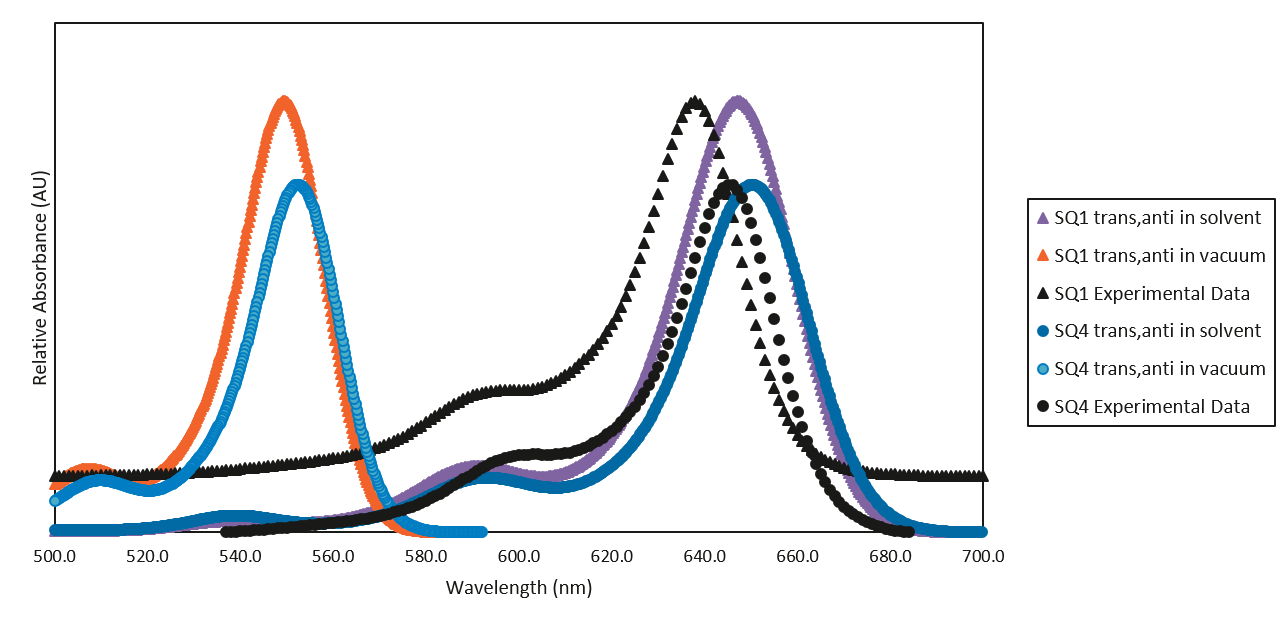
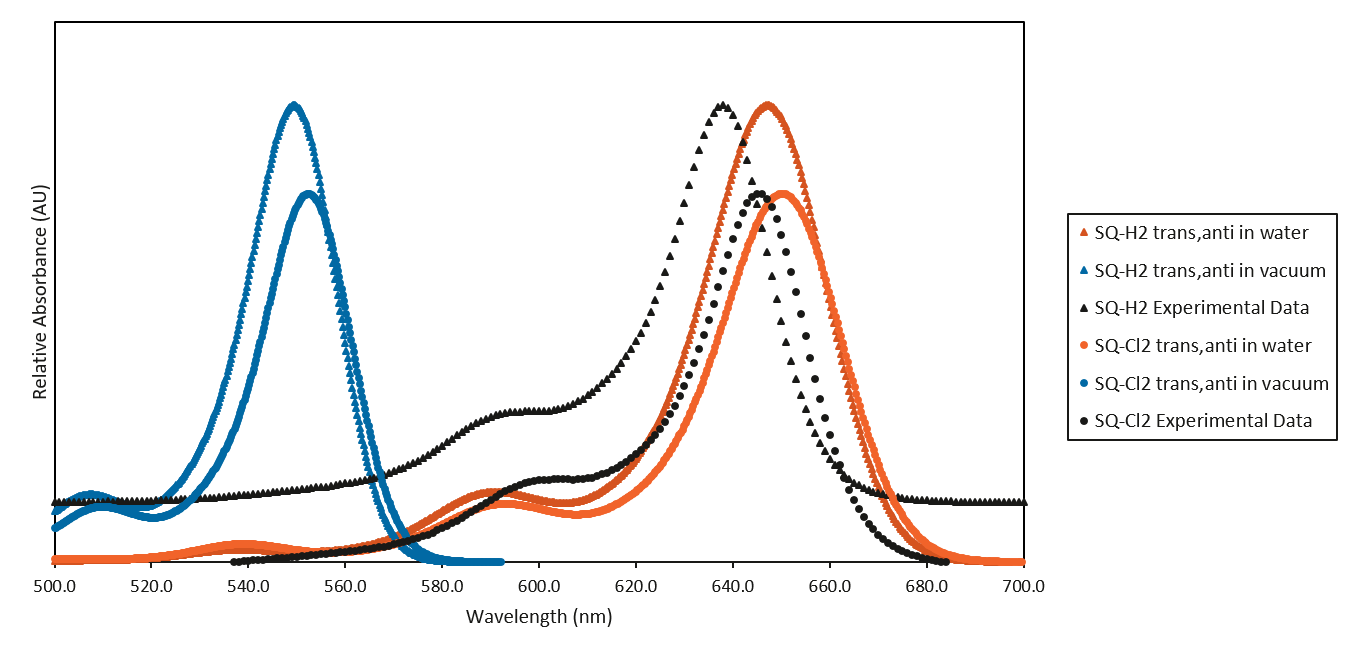
Added comments from Dr. Li. Revision of results section will follow shortly

Changed region(s): [[0.0, 0.0304, 0.9946, 0.9728], [0.3419, 0.608, 0.4351, 0.6688], [0.4351, 0.5472, 0.4662, 0.608]]

diff --git a/main.tex b/main.tex
@@ -34,6 +34,7 @@ First-Principles Studies of Substituent Effect on Squaraine Dyes\\
 \affiliation{Boise State University}
 \author{Lan Li}
 \affiliation{Boise State University}
+\email{lanli@boisestate.edu}
 
 
 
@@ -52,14 +53,14 @@ First-Principles Studies of Substituent Effect on Squaraine Dyes\\
 \section{Introduction}
 % --------------------
 Employing DNA self-assembly methods is shown to enable the manipulation and mediation of chromophore dyes and give rise to Frenkel exciton delocalization among dimer systems\cite{Cannon2018LargeAggregates}. The study of monomers can lend insight into suitable candidates for more highly tuned dimer systems. Squaraine dyes in particular are reported to have spectral properties that make them a strong candidate to be used in conjunction with DNA nanotechnology\cite{Markova2013ComparisonLabels}. This application of squaraines offers an opportunity to implement multichromophoric aggregate systems. 
-By utilizing DNA as a scaffold for squaraine aggregation, dipole-dipole coupling occurs\cite{Cannon2017CoherentSystem}. This interatomic interaction model was first described by Kasha to allow the mixing of wavefunctions to access nondegenerate states\cite{Kasha1965TheSpectroscopy}. The splitting of energy levels results in new excited state behavior in aggregates as a bathochromic shift in absorbance (often referred as an J aggregate) or a hypsochromic shift (often referred to as an H aggregate)\cite{Wurthner2011J-aggregates:Materials} in conjunction with an observed splitting of the absorption peak known as Davydov splitting\cite{Zhong2019DavydovDimers}. The optical properties of these aggregates results in Frenkel excitons with coupling strengths related to these newly accessible states. 
-To begin the study of a dye monomer to establish a baseline of multicomponent systems. Although aggregates are defined by their interaction distances, monomer electronic information is necessary when treating these interactions with point dipole approximations\cite{Abramavicius2009ExtractingSpectra}. Examples of other fields in which squaraines are being applied include organic photovoltaics\citep{Wei2012FunctionalizedPhotovoltaics, Chen2018DensityCell}, near infrared medical imaging\cite{Strassel2018SquaraineNm}, and molecular photoswitches\citep{Kellis2019AnPhases, Scholes2011LessonsHarvesting} .
+By utilizing DNA as a scaffold for squaraine aggregation, dipole-dipole coupling occurs\cite{Cannon2017CoherentSystem}. This interatomic interaction model was first described by Kasha \textit{et al} to allow the mixing of wavefunctions to access  nondegenerate states\cite{Kasha1965TheSpectroscopy}. The splitting of energy levels results in new excited state behavior in aggregates as a bathochromic shift in absorbance (often referred as an J aggregate) or a hypsochromic shift (often referred as an H aggregate)\cite{Wurthner2011J-aggregates:Materials} in conjunction with an observed splitting of the absorption peak known as Davydov splitting\cite{Zhong2019DavydovDimers}. The optical properties of these aggregates results in Frenkel excitons with coupling strengths related to these newly accessible states. 
+Although aggregates are defined by their interaction distances, monomer electronic information is necessary when treating these interactions with point dipole approximations\cite{Abramavicius2009ExtractingSpectra}. First-principles  studies of squaraines are also important for organic photovoltaics\citep{Wei2012FunctionalizedPhotovoltaics, Chen2018DensityCell}, near infrared medical imaging\cite{Strassel2018SquaraineNm}, and molecular photoswitche applications\citep{Kellis2019AnPhases, Scholes2011LessonsHarvesting} .
 
 Squaraine dyes are composed of a squaric acid center. This central feature is a made from an electron-deficient aromatic group. This group is then combined with accepting of electron-rich groups, often in a symmetric manner by means of a methine bridge\cite{Ilina2020SquaraineChallenges}. In this study, the electron-rich groups are trimethylindolenine with varied substitutes.
 
 Previous work\cite{Bassal2017ExploringADC2} highlights the history of computational studies of squaraine dye studies. This work presents a smaller variation in squaraine dyes by maintaining the basic chemistry and only altering substituent groups. Squaraine dyes, unlike similar NIR cyanine dyes, are not symmetric and so from the monomer perspective have a potential for conformers to influence bulk spectral properties\cite{Kolosova2018MolecularSquaraines}. Highlighting squaraine conformer properties has recently become of interest due to the conformations potential to alter the final photophysical properties in squaraine applications\citep{Paterno2018ExcitedScenario}. Conformers investigated in this paper are : trans,syn or $C_{s}$ symmetry; cis,syn or $C_{2v}$ symmetry; and trans,anti or $C_{2h}$ symmetry.
 
-This work investigates the ground state and excited state molecular structure of three conformations: trans,syn; cis,syn, and trans,anti for SQ-H2,SQ-Cl2 ,SQ-Cl1 and SQ-(CH3)2 otherwise referred to as SQ1, SQ4, SQ8 and SQ14 using density functional theory (DFT). This work presents a study of SQ1, SQ4, SQ8, and SQ14, in which substituents are changed according to their name. Investigations into the ground state and excited state electronic structures of these chromophores will enable a comparison of different substituents and their effects on electronic transition states necessary for the optimization of multichromophoric systems while also considering absorption properties.  
+This work investigates the ground state and excited state molecular structure of three conformations: trans,syn; cis,syn, and trans,anti for SQ-H2,SQ-Cl2 ,SQ-Cl1 and SQ-(CH3)2 using density functional theory (DFT) and time-dependent DFT (TD-DFT). Investigations into the ground state and excited state electronic structures of these dyes will enable a comparison of different substituents and their effects on electronic transition states necessary for the optimization of multichromophoric systems while also considering absorption properties.  
 
 
 \begin{figure}[h]
@@ -78,7 +79,7 @@ This work investigates the ground state and excited state molecular structure of
     \includegraphics[width=.5\linewidth]{figures/sqi-trans.png}
     \caption{}
 \end{subfigure}
-    \caption{SQ-(i), where (i) sites represent substituent locations. SQ-H2, or SQ1 refers to squaraine derivative with (i) as H.Sq-Cl2, or SQ4 refers to squaraine derivative with (i) as Cl.SQ-Cl1, or SQ8 refers to squaraine derivative with (i) as Cl and H. SQ(CH3)2, or SQ14 referring to squaraine derivative with (i) as CH4. (a) shows the trans,anti conformation. (b) shows the cis,syn conformation. (c) shows the trans,syn conformation
+    \caption{SQ-(i), where (i) sites represent substituent locations. SQ-H2 refers to squaraine derivative with (i) as H, Sq-Cl2 refers to squaraine derivative with (i) as Cl,SQ-Cl1 refers to squaraine derivative with (i) as Cl and H, and SQ(CH3)2 refers to squaraine derivative with (i) as CH4. (a) shows the trans,anti conformation. (b) shows the cis,syn conformation. (c) shows the trans,syn conformation
 }
     \label{fig:SQ dye}
 \end{figure}
@@ -87,15 +88,15 @@ This work investigates the ground state and excited state molecular structure of
 % --------------------
 \section{Methodology}
 % --------------------
-The Gaussian 16 software package\cite{g16} was used in density functional density (DFT) calculations. Molecules were built and initially relaxed using the molecular editing software Avogadro\cite{Hanwell2012Avogadro:Platform} using the UFF\cite{Rappe1992UFFSimulations} method. All calculations were performed using the 6-31G+(d,p) basis set with the M06-2X\cite{Zhao2008TheFunction} correlation functional as previous works have shown a strong agreement with experimental results when compared with physical systems\citep{Jacquemin2016Excited-StateCC2,Jacquemin20150-0Compounds}. These structures were optimized using a tight root mean square residual force of $1*(10)^{-5}$  Hartree$\backslash$Bohr and an ultra fine integration grid of $99$ radial shells and $590$ angular points per shell. The use of tight root mean squared and ultra fine integration grid is recommended for optimizing larger molecules with soft frequency modes such as methyl groups\cite{AzaisTestingSuper-Resolution}. Ground state optimization of these molecules were verified to be optimized via ground state frequency checks to ensure no imaginary frequencies were present.
+The Gaussian 16 software package\cite{g16} was used in density functional density (DFT) calculations. Molecules were built and initially relaxed using the molecular editing software Avogadro\cite{Hanwell2012Avogadro:Platform} using the UFF\cite{Rappe1992UFFSimulations} method. All calculations were performed using the 6-31G+(d,p) basis set with the M06-2X\cite{Zhao2008TheFunction} correlation functional because they showed a strong agreement with experimental results when compared with physical systems\citep{Jacquemin2016Excited-StateCC2,Jacquemin20150-0Compounds}. These structures were optimized using a tight root mean square residual force of $1*(10)^{-5}$  Hartree$\backslash$Bohr and an ultra fine integration grid of $99$ radial shells and $590$ angular points per shell. The use of tight root mean squared and ultra fine integration grid is recommended for optimizing larger molecules with soft frequency modes such as methyl groups\cite{AzaisTestingSuper-Resolution}. Ground state optimization of these molecules were verified by ground state frequency checks to ensure no imaginary frequencies were present.
 
-The optimized ground state structures were then used as the input geometry for excited state optimization calculations using time-dependent DFT (TD-DFT). The calculated excited state geometry was used to calculate the excited state frequency to ensure an optimized structure was achieved. Following this procedure was done to produce the 0-0 energy by implicitly including the zero-point vibrational energies\cite{Adamo2013TheTheory}. The ground state and excited state frequencies were then used to produce an absorption spectrum for each molecule and conformer. These spectra were generated using the general Frank-Condon (FC) method. From the ground state and excited state structures, parameters such as a dipole moment are accessible. A difference dipole,$\Delta d$, is calculated by taking the vector difference of the excited state and ground state dipole. The solvation energy, $\Delta G$ was calculated by taking the diference in ground state energies from a dye calcualted using SMD\cite{Marenich2009UniversalTensions} water and vacuum.
+The calculated excited state geometry was used to calculate the excited state frequency to ensure an optimized structure was achieved. Following this procedure was done to produce the 0-0 energy by implicitly including the zero-point vibrational energies\cite{Adamo2013TheTheory}. The ground state and excited state frequencies were then used to produce an absorption spectrum for each molecule and conformer. These spectra were generated using the general Frank-Condon (FC) method. From the ground state and excited state structures, parameters such as a dipole moment are accessible. A difference dipole,$\Delta d$, is calculated by taking the vector difference of the excited state and ground state dipole. The solvation energy, $\Delta G$ was calculated by taking the difference in ground state energies from a dye calculated using SMD\cite{Marenich2009UniversalTensions} water and vacuum.
 
 Conformation of squaraine dyes are referred here as trans,syn; cis,syn and trans,anti. In the study of monomers, it has been reported that there is a potential for coexistence of conformers in solution with conformation being substituent sensitive\citep{Kolosova2019MolecularSquaraines,Rohr2018ExcitonDimers}. The population percentages were investigated using the Boltzmann distribution.
-The difference dipole 
+The difference dipole was calculated by means of take the vector component difference of the excited state dipole and ground state dipole moments.
 
 
-Experimental discussion? Talk to Kimo
+Experimental discussion? Talk to Kimo. Have him explain the vertical difference along the y-axis for SQ-H2. SQ-Cl2 behaves as expected.
 
 \section{Results}
 When comparing the results of conformer to experimental conditions and Boltzmann population distributions, the trans,anti conformation is the most dominate population and is closest to the experimental peak absorbance. All spectra exhibit a weak vibronic shoulder followed by a strong absorption peak in the orange wavelength region. This is narrow band with shoulder has been reported in previous literature of squaraine absorption bands \citep{Qin2013ACells,Zheng2015ContributionDevices,Yang2017ThePerformance,Borrelli2014TheoreticalDye,Kuster2015CoupledPendulums,Brixner2017ExcitonSystems}. The trans,syn conformation had a negligible Boltzmann population of $<5\%$ and so this shoulder should not effect a bulk absorption spectra in solution. This follows with conclusions by others in that, for squaraine with a mirror symmetry, trans,anti dominates the the population with a non-negligible percentage also of cis,syn symmetry\cite{Borrelli2014TheoreticalDye}. In fact, the cis,syn conformation has been shown to be the more energetically favorable conformer by adding a dicyanovinyl substituent to the squaric moiety\cite{Qin2013ACells}.  
@@ -103,20 +104,20 @@ When comparing the results of conformer to experimental conditions and Boltzmann
 
 \begin{figure}[h]
     \centering
-    \includegraphics[width=16cm,height=8cm]{figures/sq1_conformer_exp.jpg}
-    \caption{Comparison of SQ1 conformer spectra generated using FC approximation in IEFPCM water solvent. All structures were optimized  using 6-31+G(d,p) basis set and M06-2X exchange correlation functional.}
+    \includegraphics[width=16cm,height=8cm]{figures/sq1_conformer_exp.png}
+    \caption{Comparison of SQ-H2 conformer spectra generated using FC approximation in IEFPCM water solvent. All structures were optimized  using 6-31+G(d,p) basis set and M06-2X exchange correlation functional.}
     \label{fig:SQ1 conformers}
 \end{figure}
 
-When comparing SQ1 and SQ4 trans,anti, experimental results, and vacuum calculations, M06-2X in vacuum is able to predict the experimental absorption spectrum curve before the inclusion of a solvent. The inclusion of solvent is able to predict the peak of SQ1 within 1.4$\%$ 0r 0.03 $eV$ of experiment and SQ4 within 2.4$\%$ or 0.02 $eV$. A blue shift of 0.03 $eV$ is a well-known phenomena of TD-DFT calculations with this family of cyanine-type dyes\cite{Jacquemin2011Excited-stateEnvironments}. Although the absorption peaks are not exact, the absorption curves are of a similar shape. This matching of shapes suggests that excited state calculations are capable of predicting the excited state geometry accurately. 
+When comparing SQ-H2 and SQ-Cl2 trans,anti, experimental results, and vacuum calculations, M06-2X in vacuum is able to predict the experimental absorption spectrum curve before the inclusion of a solvent. The inclusion of solvent is able to predict the peak of SQ-H2 within 1.4$\%$ 0r 0.03 $eV$ of experiment and SQ-Cl2 within 2.4$\%$ or 0.02 $eV$. A blue shift of 0.03 $eV$ is a well-known phenomenon of TD-DFT calculations with this family of cyanine-type dyes\cite{Jacquemin2011Excited-stateEnvironments}. Although the absorption peaks are not exact, the absorption curves are of a similar shape. This matching of shapes suggests that excited state calculations are capable of predicting the excited state geometry accurately. 
 
-A popular classification and quantification of substituents as electron donating and accepting is known as the Hammet parameter\cite{Hansch1991AParameters}. In this scheme,$\sigma_{p}^{+}$ is a parameter associated with substituents that interact with strong resonance reaction systems (+ superscript) as a general correction to the $\sigma_{p}$ parameter which does not take this approach. The chlorine substituent in SQ4 acts as a electron donating addition and is capable of delocalizing a positive charge according to the Hammet parameter. This electron localization manifest itself when comparing dipole moments, since dipole moments of a symmetric dye such as a squaraine should result in the an electronic structure with a more positive aromatic group relative to the electron-deficient squaric moiety. This substituent leaves the absorption relatively undisturbed due to the relatively uncharged $\pi$ conjugation length of the dye\cite{Punitharasu2019-ExtendedResponse}.
+A popular classification and quantification of substituents as electron donating and accepting is known as the Hammet parameter\cite{Hansch1991AParameters}. In this scheme, $\sigma_{p}^{+}$ is a parameter associated with substituents that interact with strong resonance reaction systems (+ superscript) as a general correction to the $\sigma_{p}$ parameter which does not take this approach. The chlorine substituents in SQ-Cl2 acts as an electron donating addition and is capable of delocalizing a positive charge according to the Hammet parameter. This electron localization manifest itself when comparing dipole moments, since dipole moments of a symmetric dye such as a squaraine should result in the an electronic structure with a more positive aromatic group relative to the electron-deficient squaric moiety. This substituent leaves the absorption relatively undisturbed due to the relatively uncharged $\pi$ conjugation length of the dye\cite{Punitharasu2019-ExtendedResponse}.
 
 
 \begin{figure}[h]
     \centering
     \includegraphics[width=15cm,height=8cm]{figures/sq1-sq4.png}
-    \caption{Comparison of  SQ1 and SQ4 spectra generated using FC approximation in vacuum, IEFPCM water solvent, and experimental data. All structures were optimized using 6-31+G(d,p) basis set and M06-2X exchange correlation functional.}
+    \caption{Comparison of  SQ-H2 and SQ-Cl2 spectra generated using FC approximation in vacuum, IEFPCM water solvent, and experimental data. All structures were optimized using 6-31+G(d,p) basis set and M06-2X exchange correlation functional.}
     \label{fig:SQ1 and SQ4}
 \end{figure}
 
@@ -124,7 +125,7 @@ A popular classification and quantification of substituents as electron donating
 \begin{figure}[h]
     \centering
     \includegraphics[width=15cm,height=8cm]{figures/sq1_4_8_14.png}
-    \caption{Comparison of  SQ1, SQ4, SQ8, and SQ14 trans,anti conformation spectra generated using FC approximation in IEFPCM water solvent. All structures were optimized  using 6-31+G(d,p) basis set and M06-2X exchange correlation functional.}
+    \caption{Comparison of  SQ-H2, SQ-Cl2, SQ-Cl1, and SQ-(CH3)2 trans,anti conformation spectra generated using FC approximation in IEFPCM water solvent. All structures were optimized  using 6-31+G(d,p) basis set and M06-2X exchange correlation functional.}
     \label{tab:SQ1,4,8,14 absorption}
 \end{figure}
 
@@ -138,22 +139,23 @@ A popular classification and quantification of substituents as electron donating
 
 
 \newpage
-The altering of substituents of trimethylindolenine squaraine dyes does not significantly alter the peak absorption of these dyes. This behavior suggests absorption properties are more sensitivity to $\pi$ conjugation lengths\cite{Yamaguchi2008HowEfficiency}.  Meanwhile, these substituents allow for an opportunity to change the electronic properties of dyes. When comparing trans,anti $C_{2h}$ data in Table \ref{tab:SQ1,4,8,14 lambda data}, the molecule with a break in symmetry, SQ8, exhibits a $\Delta d$ relative to the symmetric SQ1, SQ4, and SQ14. Meanwhile, when comparing $\mu$ of SQ4, SQ8, and SQ14, they remain relatively unperturbed. 
-When building a system meant for aggregation, these substituents can also effect the aggregation behavior. The difference between SQ4 and SQ14 are related to the solvation energy.
+The altering of substituents of trimethylindolenine squaraine dyes does not significantly alter the peak absorption of these dyes. This behavior suggests absorption properties are more sensitivity to $\pi$ conjugation lengths\cite{Yamaguchi2008HowEfficiency}. Meanwhile, these substituents allow for an opportunity to change the electronic properties of dyes. When comparing trans,anti $C_{2h}$ data in Table \ref{tab:SQ1,4,8,14 lambda data}, the molecule with a break in symmetry, SQ-Cl1, exhibits a $\Delta d$ relative to the symmetric SQ-H2, SQ-Cl2, and SQ-(CH3)2. Meanwhile, when comparing $\mu$ of SQ-Cl2, SQ-Cl1, and SQ-(CH3)2, they remain relatively unperturbed. When comparing Hammet parameters, the electron accepting chlorine groups and the electron withdrawing methly groups have a similar effect on delocalizing the electronic structure relative to the the highly electron accepting squaric moiety.
+When building a system meant for aggregation, these substituents can also effect the aggregation behavior. The difference between SQ-Cl2 and SQ-(CH3)2 are related to the solvation energy.
 
-When comparing the cis,syn $C_{2v}$ data, there is now a dipole relative to the electronic structure of the dyes and so $\Delta d$ values become larger. This symmetry effect is less noticeable in SQ-Cl1 since this system already had broken mirror symmetry. In general, $\mu$ values for cis,syn fell. Conformation is known to impact $\mu$\cite{Brand2011HowStructure} and the small change in $\mu$ suggests a that the squaraine dye is polarized along the short axis as this axis is least effected by conformation changes\cite{Lopata2011Excited-stateTD-ZINDO}. $\lambda_{max}$ remains relatively similar but do increase by about 4nm from trans,anti to cis,syn. This is line with previous literature\cite{Borrelli2014TheoreticalDye}.
-The inclusion of solution into the calculation can serve as a measure for likelihood of aggregation; more negative solvation energy is associated with a more thermdynamically favorable solution. For less negative solvation energy, dye aggregation is not as favorable. When comparing the solvation energy, SQ-Cl2 shows a higher likelihood to aggregate if we use solvation energy as a proxy for solubility\cite{Fothergill2018AbDyes}. 
+When comparing the cis,syn $C_{2v}$ data, there is now a dipole relative to the electronic structure of the dyes and so $\Delta d$ values become larger. This symmetry effect is less noticeable in SQ-Cl1 since this system already had broken mirror symmetry. In general, $\mu$ values for cis,syn fell. Conformation is known to impact $\mu$\cite{Brand2011HowStructure} and the small change in $\mu$ suggests that the squaraine dye is polarized along the short axis as this axis is least effected by conformation changes\cite{Lopata2011Excited-stateTD-ZINDO}. $\lambda_{max}$ remains relatively similar but does increase by about 4nm from trans,anti to cis,syn. This is line with previous literature\cite{Borrelli2014TheoreticalDye}.
+
+The inclusion of solution into the calculation can serve as a measure for likelihood of aggregation; more negative solvation energy is associated with a more thermodynamically favorable solution. For less negative solvation energy, dye aggregation is not as favorable. When comparing the solvation energy, SQ-Cl2 shows a higher likelihood to aggregate if we use solvation energy as a proxy for solubility\cite{Fothergill2018AbDyes}. 
 \newpage
 \newpage
 \section{Discussion}
 
 Although this squaraine dye has potential conformers, trans,anti with $C_{2h}$ symmetry is the dominate population. Cis,syn can be made to be the dominant conformation by adding a substituent to the squaric center. In general, trans,anti conformers have a negligible $\Delta d$ which can be attributed to symmetry of the dye.
 The choice of substituents in this study do not extend the conjugation length and so the absorption peak remains relatively static. This leaves altering of electronic properties as an option without potentially compromising the narrow intense absorption that is characteristic of squaraine dyes.
-In general, the substituents chosen all raise the squaraine $\mu$ to roughly 16$D$. The greater variability is in $\Delta d$.
+In general, the substituents chosen all raise the squaraine $\mu$ to roughly 16$D$. The greater variability is in $\Delta d$ from changing substituents should be balanced with other factors relevant for their application. 
 As some application note, these systems are of interest due to dye aggregates, with stronger aggregation preferred to encourage dipole coupling for multichromophoric systems. SQ-Cl2 has the most negative $\Delta G$ and should be further studied for these purposes.
 
 \section{Conclusion}
-Changing substituents allows for the changing of electronic properties while optical properties are help relatively constant. Trimethylindolenine squaraine dyes offer an opportunity for highly tuned dye applications. Chlorine substituents are an attractive choice for altering the electronic properties of squaraine dyes without altering the photophyiscal properties. Squaraine dyes with substituents bonded to the donating heterocycles should be expected to have a trans,anti conformation in solution. The addition of donating substituents to squaraine can alter the conjugation length of the dye and minutely effect the absorption maximum. Concomitantly, dipole and solvation energies are altered due to the change in polarity associated with 
+Changing substituents allows for the changing of electronic properties while optical properties are help relatively constant. Trimethylindolenine squaraine dyes offer an opportunity for highly tuned dye applications. Chlorine substituents are an attractive choice for altering the electronic properties of squaraine dyes without altering the photophysical properties. Squaraine dyes with substituents bonded to the donating heterocycles should be expected to have a trans,anti conformation in solution. The addition of donating substituents to squaraine can alter the conjugation length of the dye and minutely effect the absorption maximum. Concomitantly, dipole and solvation energies are altered due to the change in polarity associated with the addition of substituents' electron delocalization across the squaraine dyes. 
 % %%%%%%%%%%%%%%%%%%%%%%%%%%%%%%%%%%%%%%%%%%%%%%%%%%%%%%%%%%
 % %%%%%%%%%%%%%%%%%%%%%%%%%%%%%%%%%%%%%%%%%%%%%%%%%%%%%%%%%%
 % REFERENCES SECTION
